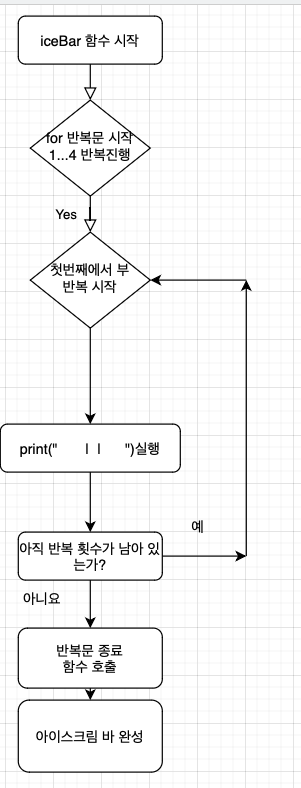
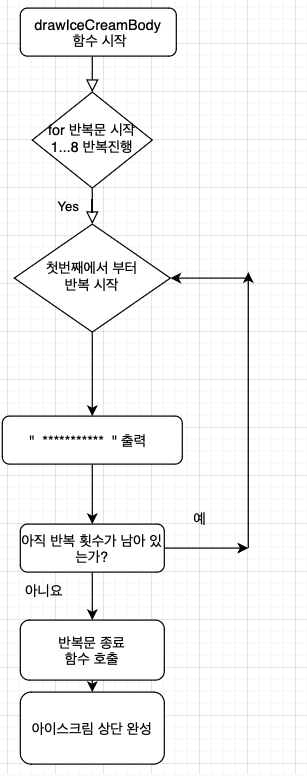
피드백 수정사항 변경

diff --git a/CodeStarterCamp_Week1/main.swift b/CodeStarterCamp_Week1/main.swift
@@ -8,68 +8,76 @@
 
 import Foundation
 
-// 순서도
 
-/*기본 적으로 만들어진 함수입니다 이 함수는 For문인 반복문을 1번에서부터 8번까지 8번 반복하게끔 진행하였습니다.*/
-func iceBody() {
-    for _ in 1...8 {
-        print("***********")
-    }
-}
-/*위의 함수와 같이 반복문을 사용하여 1번부터 4번까지 4번 반복하게 진행했습니다.*/
-func iceBar() {
-    for _ in 1...4 {
-        print("    | |    ")
-    }
-}
-/*위에 만들 함수들을 호출하여 사용합니다.*/
-print("함수 사용하기")
-iceBody()
-iceBar()
-print("함수 끝")
-// 함수 를 불러오면 자동으로 출력된다.
+///*기본 적으로 만들어진 함수입니다 이 함수는 For문인 반복문을 1번에서부터 8번까지 8번 반복하게끔 진행하였습니다.*/
+//func drawIceCreamBody() {
+//    for _ in 1...8 {
+//        print("***********")
+//    }
+//}
+///*위의 함수와 같이 반복문을 사용하여 1번부터 4번까지 4번 반복하게 진행했습니다.*/
+//func drawIceCreamBar() {
+//    for _ in 1...4 {
+//        print("    | |    ")
+//    }
+//}
+///*위에 만들 함수들을 호출하여 사용합니다.*/
+//print("함수 사용하기")
+//drawIceCreamBody()
+//drawIceCreamBar()
+//print("함수 끝")
+//// 함수 를 불러오면 자동으로 출력된다.
+//
+//
+//print("반환함수 시작")
+//func iceBodyFunc(s: String) -> String {
+//    for _ in 1...7 {
+//        print("***********")
+//    }
+//    return s
+//}
+//print(iceBodyFunc(s: "***********"))
+///*
+// 위 함수와는 다르게 반환(리턴) 값이 있는 함수입니다.
+// 위와는 다르게 for 문에서 1...8까지 8번 반복해야하지만
+// print()를 통해 함수를 1번 호출하기때문에 7번 반복 + print()를 통해 8번 출력되게 진행하였습니다.
+// */
+//func iceBarFunc(s: String) -> String {
+//
+//    for _ in 1...3 {
+//        print("    | |    ")
+//    }
+//    return s
+//}
+//print(iceBarFunc(s: "    | |    "))
+///*
+// 위와 동일하게 진행하여 4번을 반복해야 하지만
+// print()로 함수를 호출하였기때문에
+// 3번 반복 + print() 로 4번 을 출력할수있게 진행했습니다.
+// */
+//
+//print("    완성      반환함수 완성 ")
+//
+//
+//
+//print("   테스트 시작          ")
+//for _ in 1...8 {
+//    print("***********")
+//}
+//for _ in 1...4 {
+//    print("    | |    ")
+//}
+///*
+// 함수가 아니라 기본적인 for 문으로 진행하고 프린를 진행 했다.
+// */
+//print("   테스트   끝        ")
 
 
-print("반환함수 시작")
-func iceBodyFunc(s: String) -> String {
-    for _ in 1...7 {
-        print("***********")
-    }
-    return s
-}
-print(iceBodyFunc(s: "***********"))
-/*
- 위 함수와는 다르게 반환(리턴) 값이 있는 함수입니다.
- 위와는 다르게 for 문에서 1...8까지 8번 반복해야하지만
- print()를 통해 함수를 1번 호출하기때문에 7번 반복 + print()를 통해 8번 출력되게 진행하였습니다.
- */
-func iceBarFunc(s: String) -> String {
+length(x: 10)
+stick(v: 4)
+//프린트를 하지않고 진행하니 () 줄이 출력되는 현상이없어졌다.  print함로 출력을 진행하면 () 이것이 왜 생길까??
 
-    for _ in 1...3 {
-        print("    | |    ")
-    }
-    return s
-}
-print(iceBarFunc(s: "    | |    "))
-/*
- 위와 동일하게 진행하여 4번을 반복해야 하지만
- print()로 함수를 호출하였기때문에
- 3번 반복 + print() 로 4번 을 출력할수있게 진행했습니다.
- */
-
-print("    완성      반환함수 완성 ")
-
-
-
-print("   테스트 시작          ")
-for _ in 1...8 {
-    print("***********")
-}
-for _ in 1...4 {
-    print("    | |    ")
-}
-/*
- 함수가 아니라 기본적인 for 문으로 진행하고 프린를 진행 했다.
- */
-print("   테스트   끝        ")
-
+print("== ex2) ==")
+length(x: 12)
+stick(v: 4)
+topping(z: "&")

diff --git a/CodeStarterCamp_Week1/Step3.swift b/CodeStarterCamp_Week1/Step3.swift
@@ -7,16 +7,31 @@
 
 import Foundation
 
-func length(x: Int) {
-    
-}
 
-func body(y: String) {
-    
+//let body : String = " ***"
+let stick: String = " | |"
+
+///길이
+func length(x: Int) {
+    for _ in 1...x {
+        print(body(y: " ***"))
+    }
 }
+/// 막대 길이
+func stick(v: Int) {
+    for _ in 1...v {
+        print(stick)
+    }
+}
+// 몸통
+func body(y: String) -> String {
+    return y
+}
+// 토핑
 func topping(z: String) {
     
 }
+
 
 //func 함수이름(매개변수1이름: 매개변수1타입, 매개변수2이름: 매개변수2타입 = 매개변수 기본값 ...) -> 반환타입 {
 //    /* 함수 구현부 */
